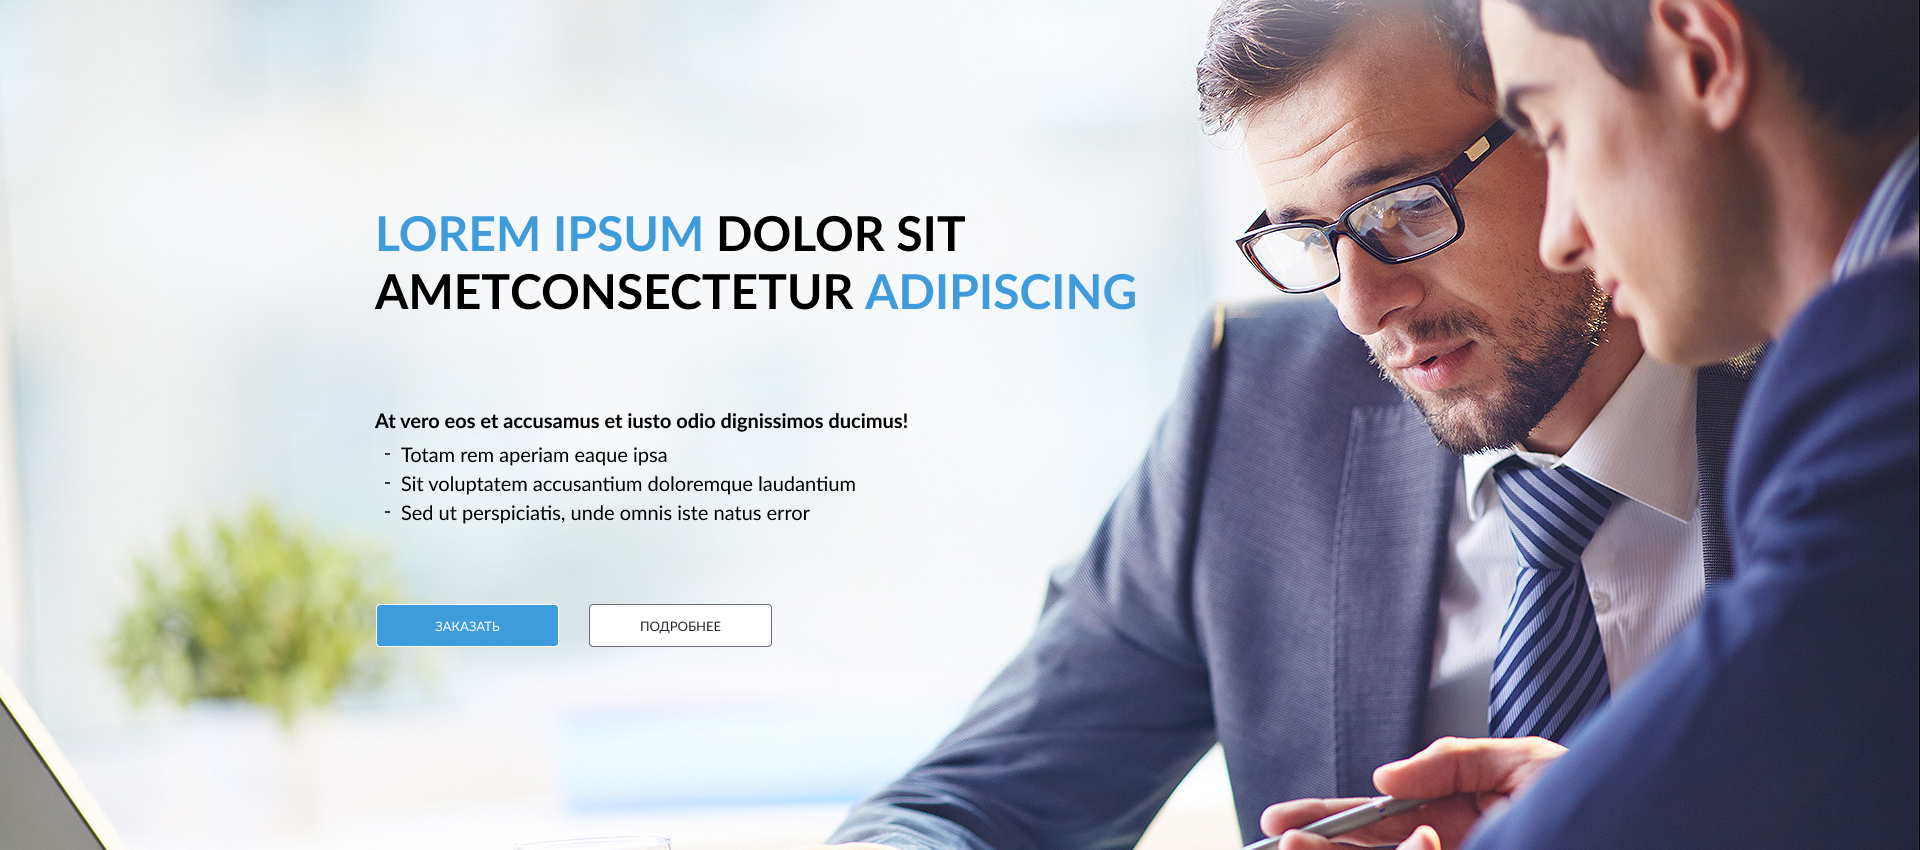
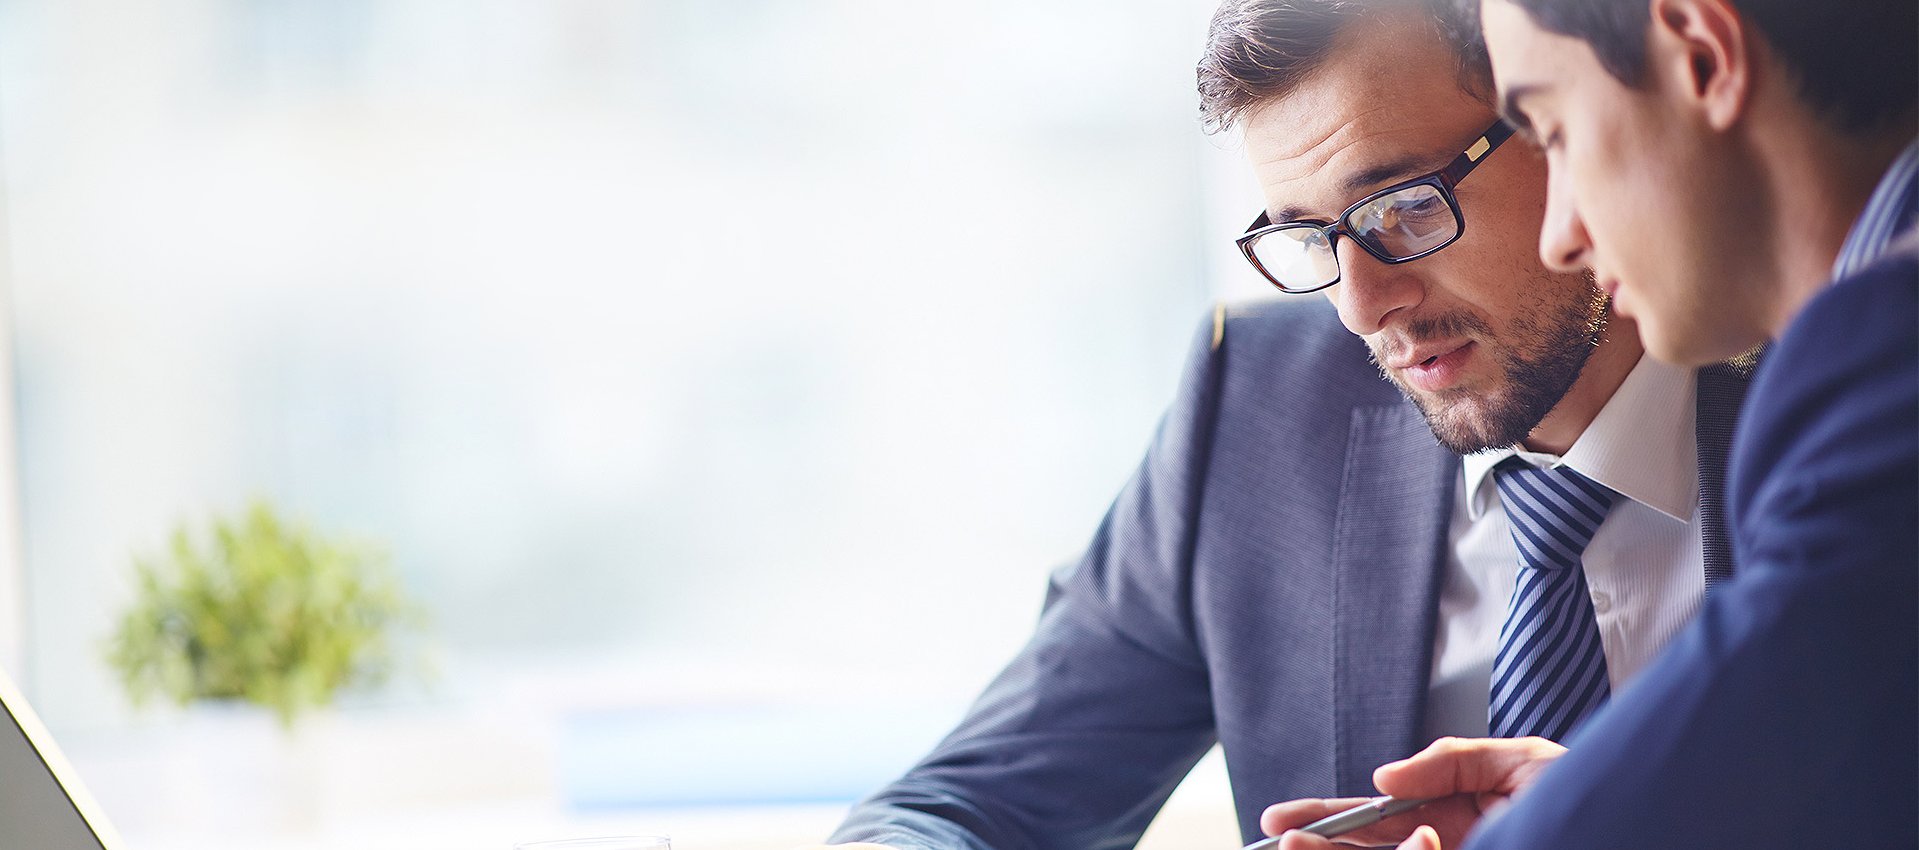
create section description

diff --git a/src/scss/description.scss b/src/scss/description.scss
@@ -1,0 +1,89 @@
+.description {
+  background: url("../img/bg-main.png");
+  background-size: cover;
+  // background-position: center;
+  background-repeat: no-repeat;
+  padding-top: 100px;
+  padding-bottom: 220px;
+  .description__title {
+    max-width: 780px;
+    font-style: normal;
+    font-weight: 700;
+    font-size: 3rem;
+    line-height: 58px;
+    text-transform: uppercase;
+    color: $color-main;
+    margin-bottom: 80px;
+  }
+  span {
+    color: #000;
+  }
+  .description__content {
+    &-text {
+      font-style: normal;
+      font-weight: 700;
+      font-size: 1.2rem;
+      line-height: 24px;
+      // display: flex;
+      // align-items: center;
+      color: #000000;
+      margin-bottom: 10px;
+    }
+    &-list {
+      margin-bottom: 80px;
+      li {
+        position: relative;
+        font-style: normal;
+        font-weight: 400;
+        font-size: 1.2rem;
+        line-height: 24px;
+        display: flex;
+        align-items: center;
+        color: #000000;
+        &::before {
+          content:  "—";
+          left: -15px;
+        }
+      }
+    }
+  }
+  .description__buttnos {
+    display: flex;
+    align-items: center;
+    flex-wrap: wrap;
+    gap: 10px;
+    .button {
+      width: 183px;
+      padding-top: 10px;
+      padding-bottom: 10px;
+      transition: all ease-in-out .2s;
+    }
+    .button__order {
+      background-color: $color-main;
+      color: #fff;
+      border: 1px solid #FFFFFF;
+      border-radius: 4px;
+      &:hover {
+        background-color: #fff;
+        border: 1px solid $color-main;
+        color: $color-main;
+        -webkit-box-shadow: 8px 8px 7px 0px rgba(0, 0, 0, 0.2);
+        -moz-box-shadow: 8px 8px 7px 0px rgba(0, 0, 0, 0.2);
+        box-shadow: 8px 8px 7px 0px rgba(0, 0, 0, 0.2);
+      }
+    }
+    .button__more {
+      color: #000;
+      background: #FFFFFF;
+      border: 1px solid #6F6D7B;
+      border-radius: 4px;
+      &:hover {
+        background-color: $mainColor;
+        color: #fff;
+        -webkit-box-shadow: 8px 8px 7px 0px rgba(0, 0, 0, 0.2);
+        -moz-box-shadow: 8px 8px 7px 0px rgba(0, 0, 0, 0.2);
+        box-shadow: 8px 8px 7px 0px rgba(0, 0, 0, 0.2);
+      }
+    }
+  }
+}

diff --git a/src/html/_description.htm b/src/html/_description.htm
@@ -1,0 +1,21 @@
+<section class="description">
+  <div class="description__container">
+    <h1 class="description__title">
+      Lorem ipsum <span>dolor sit ametconsectetur</span> adipiscing
+    </h1>
+    <div class="description__content">
+      <p class="description__content-text">
+        At vero eos et accusamus et iusto odio dignissimos ducimus!
+      </p>
+      <ul class="description__content-list">
+        <li>Totam rem aperiam eaque ipsa</li>
+        <li>Sit voluptatem accusantium doloremque laudantium</li>
+        <li>Sed ut perspiciatis, unde omnis iste natus error</li>
+      </ul>
+    </div>
+    <div class="description__buttnos">
+      <button class="button button__order">Заказать</button>
+      <button class="button button__more">Подробнее</button>
+    </div>
+  </div>
+</section>

diff --git a/src/index.html b/src/index.html
@@ -1,12 +1,13 @@
 <!DOCTYPE html>
 <html lang="ru">
 	@@include('html/_head.htm',{
-	"title":"Главная"
+	"title":"Тестовое задание"
 	})
 	<body>
 		<div class="wrapper">
 			@@include('html/_header.htm',{})
 			<main class="page">
+				@@include('html/_description.htm',{})
 			</main>
 			@@include('html/_footer.htm',{})
 		</div>

diff --git a/src/scss/style.scss b/src/scss/style.scss
@@ -130,6 +130,7 @@ body {
 // Подключение стилей отдельных блоков
 @import "header";
 @import "footer";
+@import "description";
 
 // Подключение стилей отдельных страниц
 // @import "home";

diff --git a/src/scss/common.scss b/src/scss/common.scss
@@ -4,6 +4,6 @@ $color-main: #3E9CDC;
 $bg-header: rgba(16, 16, 29, 0.9);
 $bg-footer: #3D4050;
 
-@mixin span-text {
+@mixin span-highlight {
   color: $color-main;
 }

diff --git a/src/html/_header.htm b/src/html/_header.htm
@@ -1,5 +1,4 @@
 <header class="header">
 	<div class="header__container">
-		привет
 	</div>
 </header>
